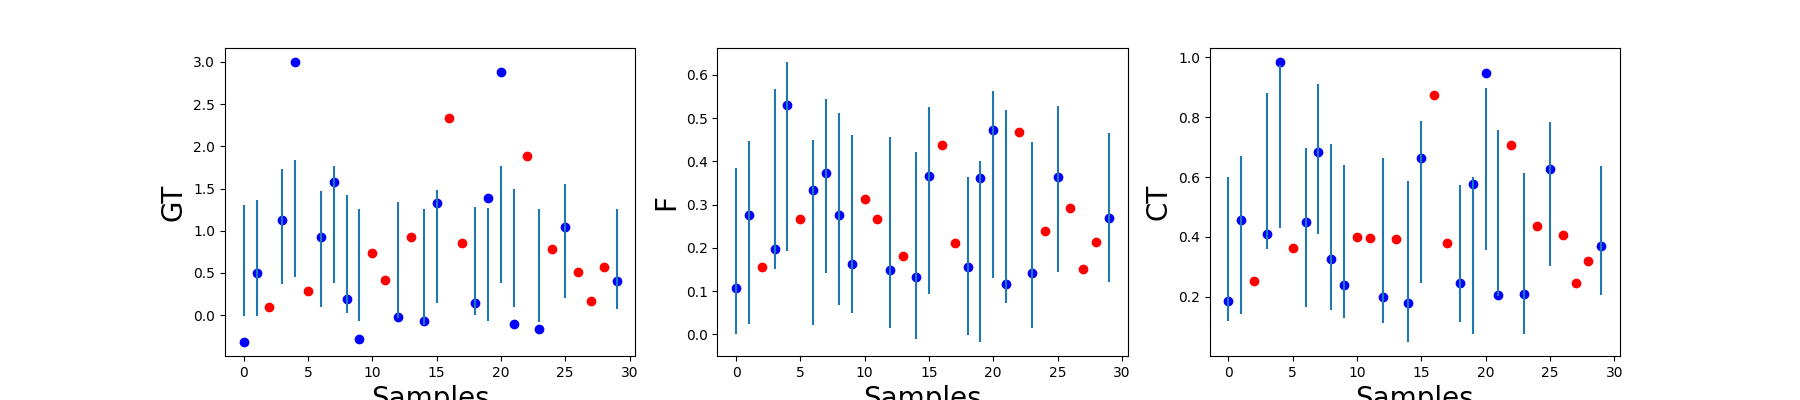
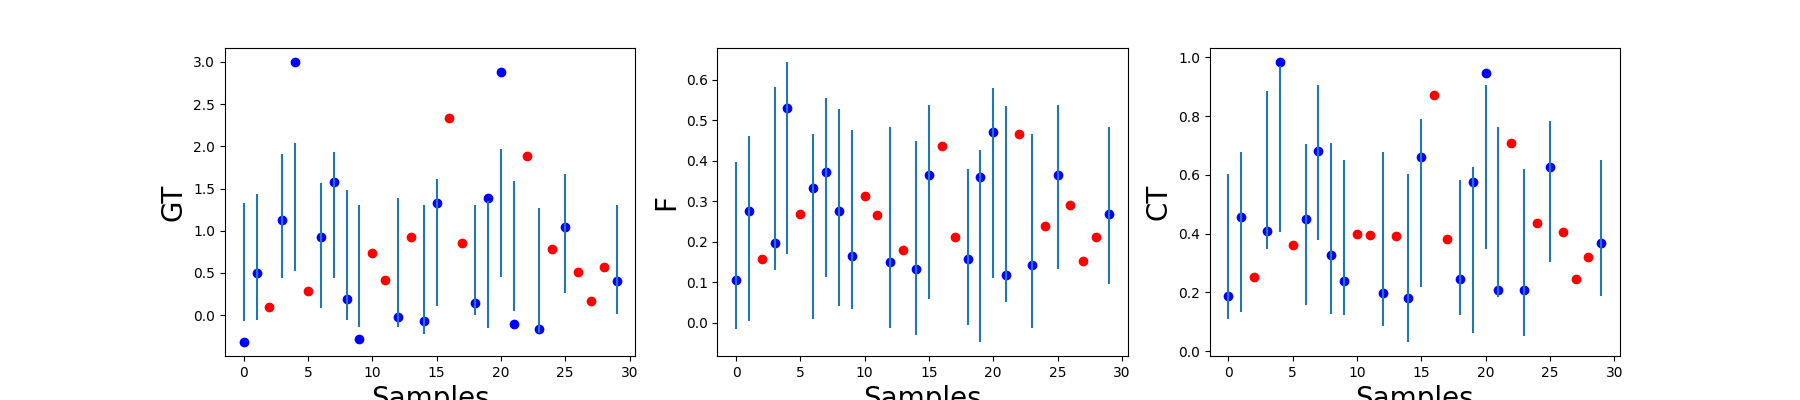
Added Preprocessing and Visualization classes

diff --git a/main.py b/main.py
@@ -1,77 +1,36 @@
-import numpy as np
-import matplotlib.pyplot as plt
 from models.model_trainer import ModelTrainer
 from models.multi_fidelity_deep_gp import MultiFidelityDeepGPTrainer as DeepTrainer
-import pandas as pd
-from sklearn.preprocessing import StandardScaler
-from sklearn.decomposition import PCA
+from preprocessing.preprocess_imsrg_data import IMSRGPreprocessor
+from visualization.plotter import Plotter
 
 import os
 
-df = pd.read_csv('34Samples_dataset.csv')
+file_path = "data/34Samples_dataset.csv"
+num_train_data = 12  # the number of data to train the highest level on
+max_fidelity = 2  # modify this to add more fidelity layers. Note that it's one based
+num_outputs = 4  # must change this if you change the number of tasks!
+num_x_cols = 17  # how many x columns there are in the dataframe
+num_pca_dims = None  # how many pca dims to compress to; leave None for full resolution
+# tasks is a dictionary: the key is the fidelity (higher number => higher fidelity)
+#                        and the value is a list of columns associated with that fidelity
+tasks = {
+        "1": ["GT", "F", "CT", "T"],
+        "0": ["GT_HF", "F_HF", "CT_HF", "T_HF"]
+    }
+seed = 0
+preprocessor = IMSRGPreprocessor(
+    file_path=file_path,
+    num_train_data=num_train_data,
+    max_fidelity=max_fidelity,
+    num_outputs=num_outputs,
+    num_x_cols=num_x_cols,
+    tasks=tasks,
+    num_pca_dims=num_pca_dims,
+    seed=seed
+)
 
-seed = 1
-num_hf_data = 12
-np.random.seed(seed)
-indices = np.random.choice(range(df.shape[0]), size=num_hf_data, replace=False)
-test_indices = [i for i in range(df.shape[0]) if i not in indices]
-
-x = df.iloc[:, 1:18]
-y = df.iloc[:, 18:24]
-
-x_train = x.iloc[indices, :]
-y_train = y.iloc[indices, :]
-x_test = x.iloc[test_indices, :]
-y_test = y.iloc[test_indices, :]
-
-X_train = np.vstack((
-        np.hstack((x, np.zeros((x.shape[0], 1)), np.zeros((x.shape[0], 1)))),
-        np.hstack((x, np.ones((x.shape[0], 1)), np.zeros((x.shape[0], 1)))),
-        np.hstack((x, np.ones((x.shape[0], 1)) * 2, np.zeros((x.shape[0], 1)))),
-        np.hstack((x_train, np.zeros((x_train.shape[0], 1)), np.ones((x_train.shape[0], 1)))),
-        np.hstack((x_train, np.ones((x_train.shape[0], 1)), np.ones((x_train.shape[0], 1)))),
-        np.hstack((x_train, np.ones((x_train.shape[0], 1)) * 2, np.ones((x_train.shape[0], 1))))
-))
-
-X_test = np.vstack((
-        np.hstack((x_test, np.zeros((x_test.shape[0], 1)))),
-        np.hstack((x_test, np.ones((x_test.shape[0], 1)))),
-        np.hstack((x_test, np.ones((x_test.shape[0], 1)) * 2))
-))
-
-Y_train = np.vstack((
-        np.hstack((np.reshape(np.array(y["GT_HF"]), (y.shape[0], 1)), np.zeros((y.shape[0], 1)), np.zeros((y.shape[0], 1)))),
-        np.hstack((np.reshape(np.array(y["F_HF"]), (y.shape[0], 1)), np.ones((y.shape[0], 1)), np.zeros((y.shape[0], 1)))),
-        np.hstack((np.reshape(np.array(y["CT_HF"]), (y.shape[0], 1)), np.ones((y.shape[0], 1)) * 2, np.zeros((y.shape[0], 1)))),
-        np.hstack((np.reshape(np.array(y_train["GT"]), (y_train.shape[0], 1)), np.zeros((y_train.shape[0], 1)), np.ones((y_train.shape[0], 1)))),
-        np.hstack((np.reshape(np.array(y_train["F"]), (y_train.shape[0], 1)), np.ones((y_train.shape[0], 1)), np.ones((y_train.shape[0], 1)))),
-        np.hstack((np.reshape(np.array(y_train["CT"]), (y_train.shape[0], 1)), np.ones((y_train.shape[0], 1)) * 2, np.ones((y_train.shape[0], 1))))
-))
-
-Y_test = np.vstack((
-        np.hstack((np.reshape(np.array(y_test["GT"]), (y_test.shape[0], 1)), np.zeros((y_test.shape[0], 1)))),
-        np.hstack((np.reshape(np.array(y_test["F"]), (y_test.shape[0], 1)), np.ones((y_test.shape[0], 1)))),
-        np.hstack((np.reshape(np.array(y_test["CT"]), (y_test.shape[0], 1)), np.ones((y_test.shape[0], 1)) * 2))
-))
-
-#Perform PCA to reduce dimensionality of the parameter space
-scaler = StandardScaler()
-scaler.fit(X_train[:, :-2])
-x_train_data = scaler.transform(X_train[:, :-2])
-x_test_data = scaler.transform(X_test[:, :-1])
-
-n_dims = 7
-
-if n_dims < x_train_data.shape[1]:
-    pca = PCA(n_components=n_dims)
-    pca.fit(x_train_data)
-    x_train_data = pca.transform(x_train_data)
-    x_test_data = pca.transform(x_test_data)
-else:
-    n_dims = x_train_data.shape[1]
-
-X_train = np.hstack((x_train_data, X_train[:, -2:]))
-X_test = np.hstack((x_test_data, X_test[:, -1:]))
+X_train, Y_train = preprocessor.get_training_data()
+X_test, Y_test = preprocessor.get_testing_data()
 
 model_name = 'DGP'
 base_model = 'VGP'
@@ -81,7 +40,7 @@ likelihood_name = 'Gaussian'
 deep_trainer = DeepTrainer(
     data=(X_train, Y_train),
     optimizer_name='scipy',
-    num_outputs=3
+    num_outputs=num_outputs
 )
 
 deep_trainer.construct_model(
@@ -92,32 +51,26 @@ deep_trainer.construct_model(
 
 deep_trainer.train_deep_model()
 
+y_train_df = preprocessor.get_y_data_as_df()
 
-def plot_real_data(trainer, X_test):
-    mean, var = trainer.predict(X_test, fidelity=None)
-    mean_reshaped = np.reshape(mean, (mean.shape[0] // 3, 3), "F")
-    var_reshaped = np.reshape(var, (var.shape[0] // 3, 3), "F")
+plotter = Plotter(
+    trainer=deep_trainer,
+    X_test=X_test,
+    Y_test=Y_test,
+    Y_train=y_train_df,
+    tasks=tasks[str(max_fidelity - 1)]
+)
 
-    tasks = ["GT", "F", "CT"]
-    ntasks = len(tasks)
-    f, axes = plt.subplots(1, ntasks, figsize=(18, 4))
-    xplot = np.arange(x.shape[0])
+train_inds, test_inds = preprocessor.get_indices()
+path = f"images/{model_name}/{base_model}/{base_kernels[0]}"
+if not os.path.isdir(path):
+    os.makedirs(path)
 
-    for i in range(len(axes)):
-        # Computed points as blue dots
-        axes[i].scatter(xplot[test_indices], y_test[tasks[i]], c='b')
-        # Plot training data as red dots
-        axes[i].scatter(xplot[indices], y_train[tasks[i]], c='r')
-        # Shade in confidence
-        axes[i].errorbar(xplot[test_indices], mean_reshaped[:, i], yerr=2 * np.sqrt(np.abs(var_reshaped[:, i])), linestyle='none')
-        axes[i].set_ylabel(tasks[i], size=20)
-        axes[i].set_xlabel("Samples", size=20)
-    path = f"images/{model_name}/{base_model}/{base_kernels[0]}"
-    if not os.path.isdir(path):
-        os.makedirs(path)
-    plt.savefig(f"{path}/real_{n_dims}_{num_hf_data}_{seed}_{2}")
-
-
-plot_real_data(deep_trainer, X_test)
+plotter.plot(
+    num_data_points=y_train_df.shape[0] + Y_test.shape[0],
+    train_indices=train_inds,
+    test_indices=test_inds,
+    path_to_save=f"{path}/real_{num_pca_dims}_{num_train_data}_{seed}_{num_outputs}_tasks"
+)
 
 

diff --git a/preprocessing/preprocess_imsrg_data.py b/preprocessing/preprocess_imsrg_data.py
@@ -1,0 +1,126 @@
+from typing import List, Dict, Union
+
+import numpy as np
+import pandas as pd
+from dataclasses import dataclass
+
+from sklearn.decomposition import PCA
+from sklearn.preprocessing import StandardScaler
+
+
+@dataclass
+class IMSRGPreprocessor:
+    """This class takes IMSRG data and preprocesses it into the appropriate format for the models"""
+    file_path: str
+    num_train_data: int
+    max_fidelity: int
+    num_outputs: int
+    num_x_cols: int
+    tasks: Dict[str, List[str]]
+    seed: int = 0
+    num_pca_dims: Union[int, None] = None
+
+    def __post_init__(self):
+        """
+        Creates the training and testing datasets in the appropriate format
+        :return: None
+        """
+        np.random.seed(self.seed)
+
+        df = pd.read_csv(self.file_path)
+        df = self.clean_df(df)
+
+        indices = np.random.choice(range(df.shape[0]), size=self.num_train_data, replace=False)
+        test_indices = [i for i in range(df.shape[0]) if i not in indices]
+        self.train_indices = indices
+        self.test_indices = test_indices
+
+        x = df.iloc[:, 1:self.num_x_cols + 1]
+        x_train = x.iloc[indices, :]
+        x_test = x.iloc[test_indices, :]
+
+        x, x_train, x_test = self.scale_data(x, x_train, x_test)
+        if self.num_pca_dims is not None:
+            x, x_train, x_test = self.perform_pca(x, x_train, x_test)
+
+        y_cols = np.concatenate([value for value in self.tasks.values()])
+        y = df[y_cols]
+        y_train = y.iloc[indices, :]
+        self.y_train_as_df = y_train
+
+        self.X_train = np.vstack(
+            [np.hstack((x, np.ones((x.shape[0], 1)) * i, np.ones((x.shape[0], 1)) * j))
+             if j < self.max_fidelity - 1 else
+             np.hstack((x_train, np.ones((x_train.shape[0], 1)) * i, np.ones((x_train.shape[0], 1)) * j))
+             for j in range(self.max_fidelity) for i in range(self.num_outputs)]
+        )
+
+        self.Y_train = np.vstack([
+            np.hstack(
+                (np.reshape(np.array(y[self.tasks[str(j)][i]]), (y.shape[0], 1)), np.ones((y.shape[0], 1)) * i,
+                 np.ones((y.shape[0], 1)) * j)) if j < self.max_fidelity - 1 else
+            np.hstack((np.reshape(np.array(y_train[self.tasks[str(j)][i]]), (y_train.shape[0], 1)), np.ones((y_train.shape[0], 1)) * i,
+                       np.ones((y_train.shape[0], 1)) * j))
+            for j in range(self.max_fidelity) for i in range(self.num_outputs)
+        ])
+
+        self.X_test = np.vstack([
+            np.hstack((x_test, np.ones((x_test.shape[0], 1)) * i)) for i in range(self.num_outputs)
+        ])
+
+        self.Y_test = y.iloc[test_indices, :]
+
+    def perform_pca(self, x, x_train, x_test):
+        """
+        Perform PCA to reduce dimensionality of the parameter space
+        :param x: The full dataset
+        :param x_train: The training dataset
+        :param x_test: The testing dataset
+        :return: The scaled datasets
+        """
+        if self.num_pca_dims < x.shape[1]:
+            pca = PCA(n_components=self.num_pca_dims)
+            pca.fit(x_train)
+            x = pca.transform(x)
+            x_train = pca.transform(x_train)
+            x_test = pca.transform(x_test)
+
+        return x, x_train, x_test
+
+    def scale_data(self, x, x_train, x_test):
+        """
+        Scales the data
+        :param x: The full dataset
+        :param x_train: The training dataset
+        :param x_test: The testing dataset
+        :return: The scaled datasets
+        """
+        scaler = StandardScaler()
+        scaler.fit(x_train)
+        x_train = scaler.transform(x_train)
+        x_test = scaler.transform(x_test)
+        x = scaler.transform(x)
+        return x, x_train, x_test
+
+    def clean_df(self, df: pd.DataFrame) -> pd.DataFrame:
+        """
+        Cleans the dataframe by dropping unused columns and removing rows with NaN values
+        :param df: The dataframe to clean
+        :return: The cleaned dataframe
+        """
+        x_cols = list(df.columns)[1:self.num_x_cols + 1]
+        tasks = np.concatenate([value for value in self.tasks.values()])
+        df = df[x_cols + list(tasks)]
+        return df.dropna(axis=0)
+
+    def get_training_data(self):
+        return self.X_train, self.Y_train
+
+    def get_testing_data(self):
+        return self.X_test, self.Y_test
+
+    def get_y_data_as_df(self):
+        return self.y_train_as_df
+
+    def get_indices(self):
+        return self.train_indices, self.test_indices

diff --git a/visualization/plotter.py b/visualization/plotter.py
@@ -1,0 +1,34 @@
+import matplotlib.pyplot as plt
+import numpy as np
+
+
+class Plotter:
+
+    def __init__(self, trainer, X_test, Y_test, Y_train, tasks):
+        self.trainer = trainer
+        self.X_test = X_test
+        self.Y_test = Y_test
+        self.Y_train = Y_train
+        self.tasks = tasks
+
+    def plot(self, num_data_points, train_indices, test_indices, path_to_save):
+        ntasks = len(self.tasks)
+        mean, var = self.trainer.predict(self.X_test, fidelity=None)
+        mean = np.reshape(mean, (mean.shape[0] // ntasks, ntasks), "F")
+        var = np.reshape(2 * np.sqrt(var), (var.shape[0] // ntasks, ntasks), "F")
+
+        nrows = ntasks // 2
+        f, axes = plt.subplots(nrows, ncols=ntasks // nrows, figsize=(18, 4))
+        xplot = np.arange(num_data_points)
+
+        for i, ax in enumerate(axes.flatten()):
+            # Computed points as blue dots
+            ax.scatter(xplot[test_indices], self.Y_test[self.tasks[i]], c='b')
+            # Plot training data as red dots
+            ax.scatter(xplot[train_indices], self.Y_train[self.tasks[i]], c='r')
+            # Shade in confidence
+            ax.errorbar(xplot[test_indices], mean[:, i], yerr=var[:, i], linestyle='none')
+            ax.set_ylabel(self.tasks[i], size=20)
+            ax.set_xlabel("Samples", size=20)
+        plt.savefig(path_to_save)
+        print(f"Plot saved to {path_to_save}")
